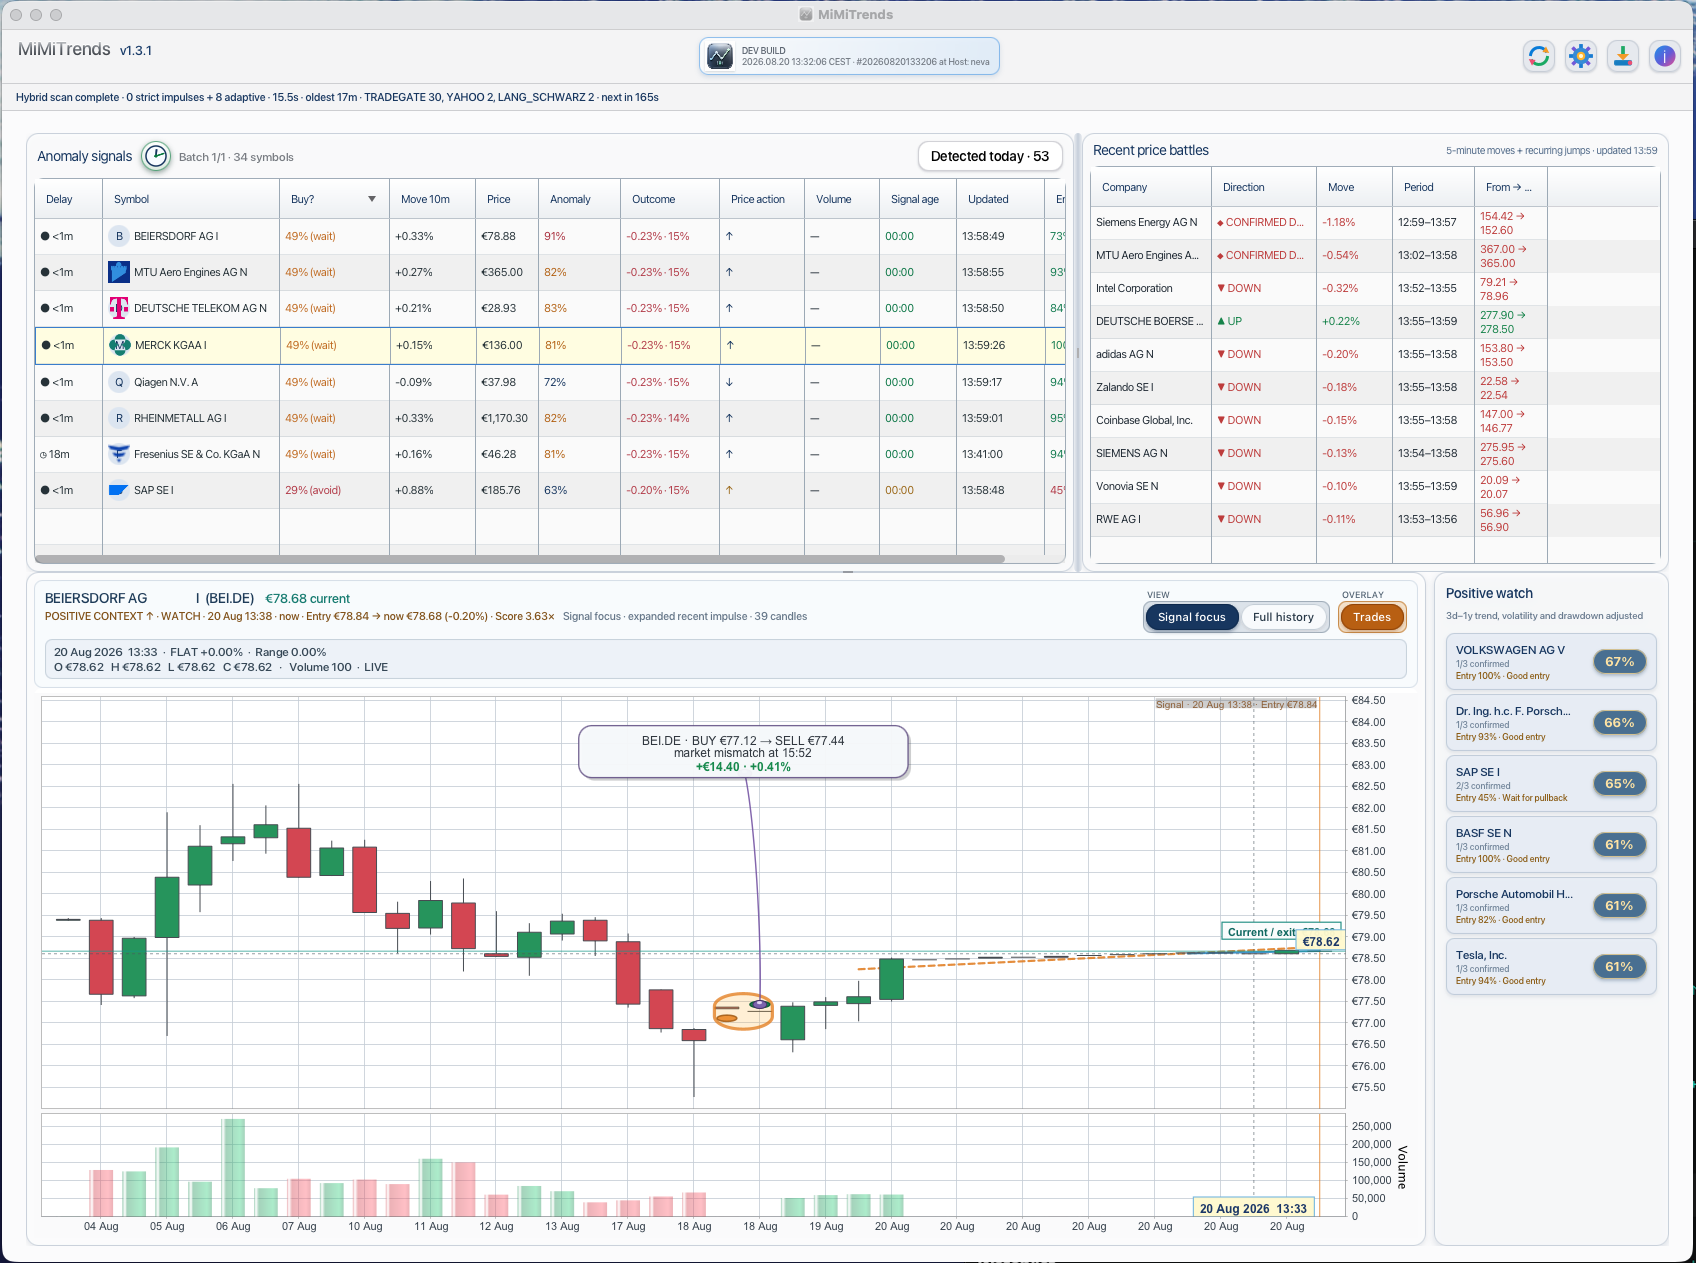
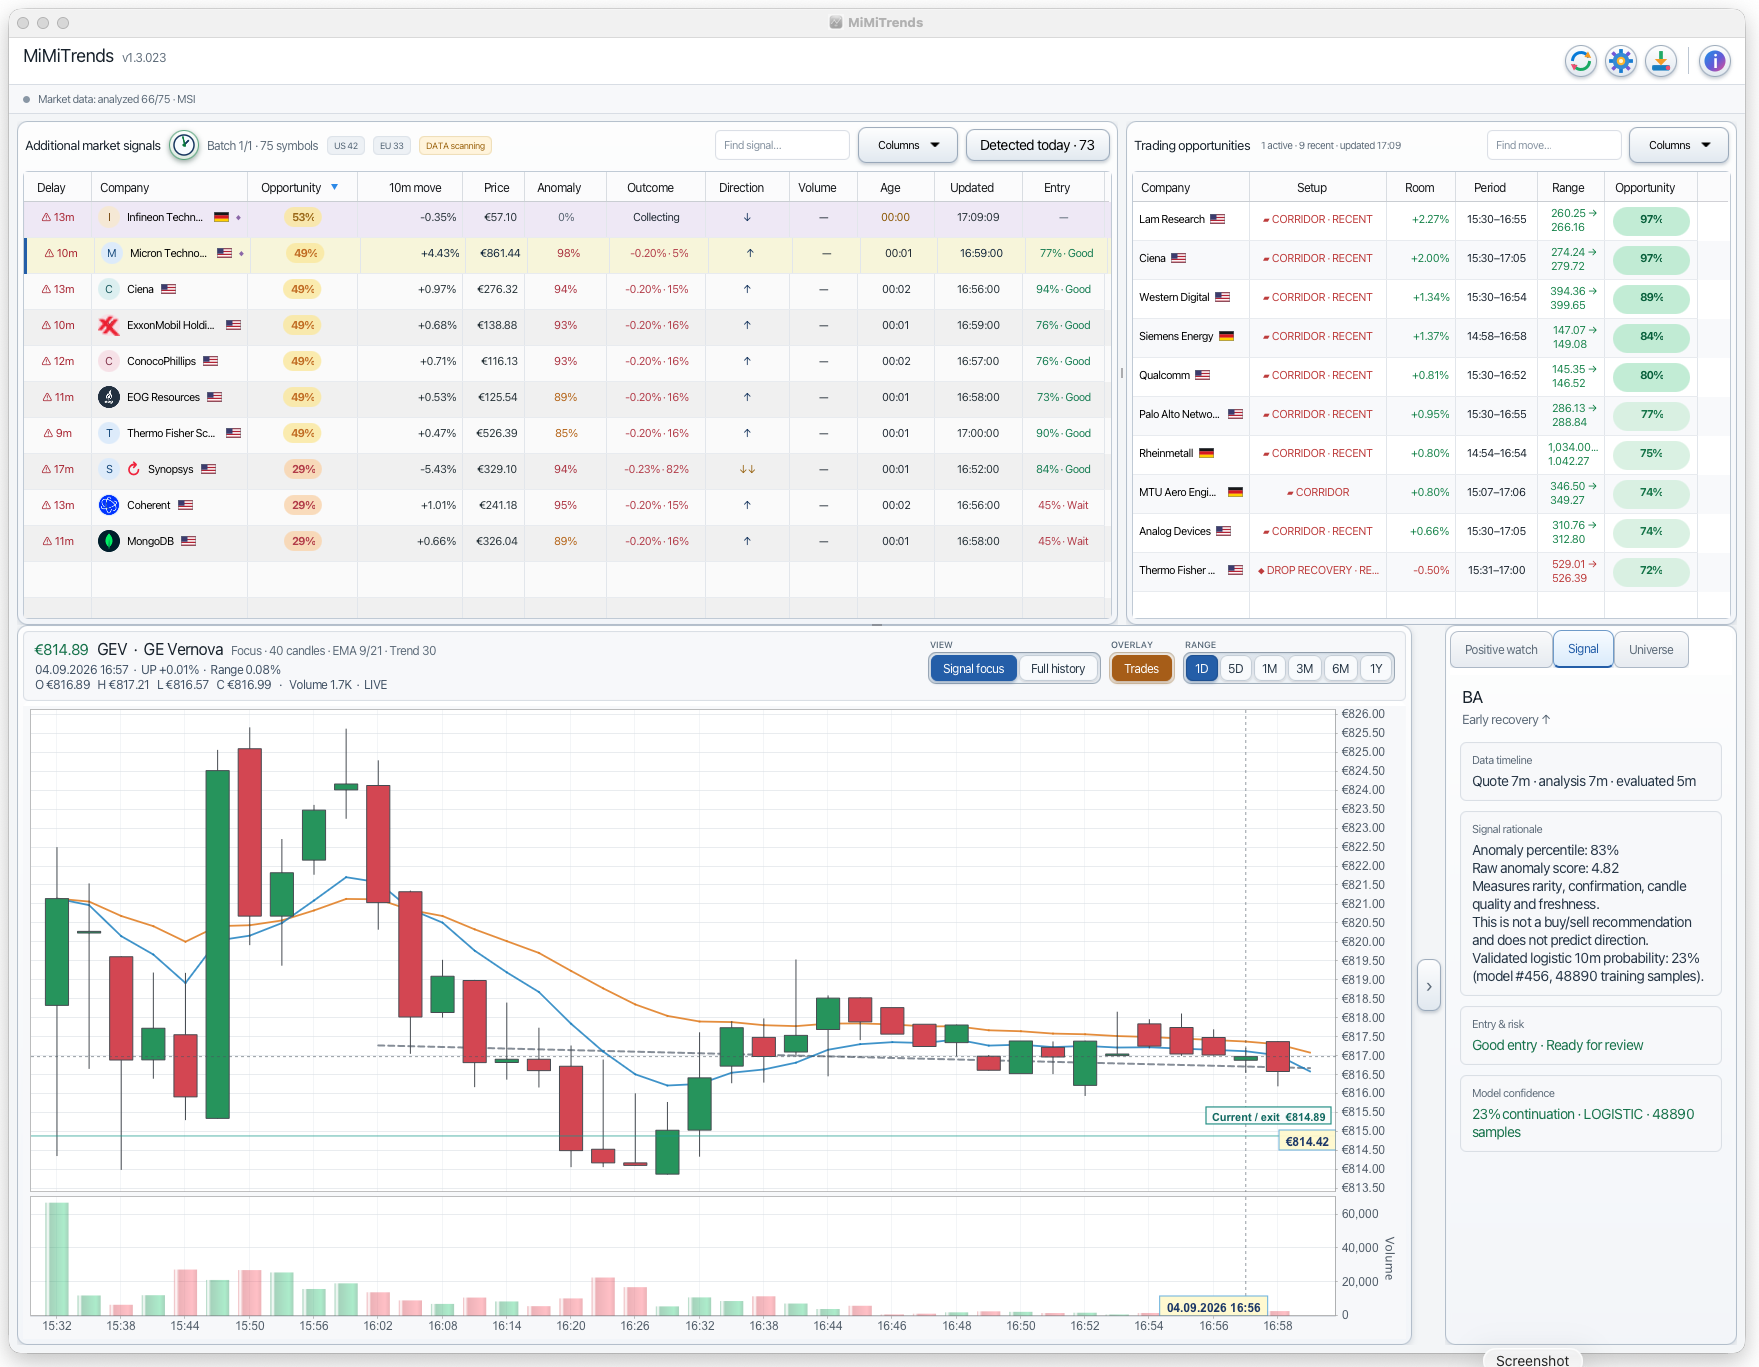
New:  new screenshots for docus

Changed region(s): [[0.0, 0.0, 1.0, 1.0], [0.4062, 0.0, 0.5938, 0.0618], [0.5312, 0.5867, 0.5625, 0.6176]]

diff --git a/README.md b/README.md
@@ -49,9 +49,17 @@ MiMiTrends is informational software. It does not place orders, provide investme
 
 *Freshness is the first sortable column. Pattern rows show their watch priority as a percentage, while
 Outcome progresses from `Collecting` to a preliminary `Beta` probability and finally a validated `Model`
-probability. The lower pane shows the selected event, minute candles, volume, entry, current price, and
-executed trades. Rounded trade cards can be dragged away from the candles; curved purple leaders keep
-every explanation associated with its orange trade interval.*
+probability. The workspace keeps fresh signals, actionable corridors and recoveries, the explanation
+panel, minute candles, volume, entry, current price, and EMA 9/21 plus the retrospective Trend 30 overlay
+visible together. Executed trades can be overlaid without leaving the chart.*
+
+### Positive watch
+
+<img src="./Doc/PositiveWatch.png" alt="MiMiTrends positive watch list and intraday trend chart" width="900">
+
+*Positive watch ranks downside-safety candidates separately from anomaly signals. Confirmation counts,
+entry quality, estimated safety, current-session candles, EMA 9/21, and the latest 30-candle direction
+remain visible without presenting the result as investment advice.*
 
 ### Scanner settings
 
@@ -544,11 +552,14 @@ Selecting a scanner row opens its locally stored candles and volume.
 - signal type, time, entry price, current/exit reference, score, and RVOL;
 - a non-linear trading-time axis that removes closed-market gaps and reserves at least one third of the width for fresh signal candles;
 - aggregated distant context with unaggregated minute candles around the signal;
-- fast 5-minute and local 15-minute direction overlays;
+- EMA 9 and EMA 21 overlays for short- and medium-speed price direction;
+- a dashed, retrospective linear-regression trend across the latest 30 visible candles;
 - a highlighted signal interval and signal-volume bar;
 - real OHLC, candle return, and volume for the candle nearest the cursor;
 - stronger background grid lines for accurate visual comparison;
 - a `Full history` switch for broader context;
+- a `1D` range that starts at midnight in the instrument's exchange-local time and therefore shows the
+  current trading day rather than a rolling 24-hour mixture of two sessions;
 - a `Trades` overlay with translucent rounded cards, clear borders, curved purple leaders, and
   preserved drag positions in both chart modes;
 - pan, zoom, synchronized time/price cursors, and tooltips.
